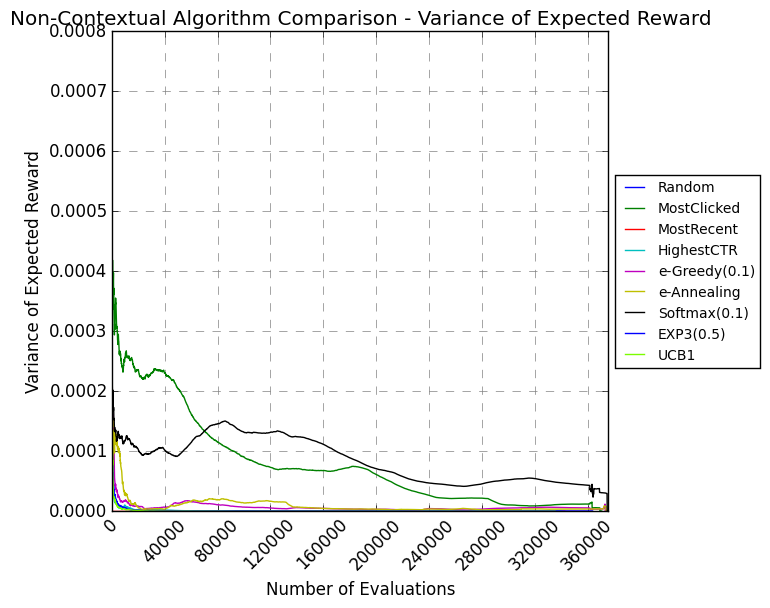
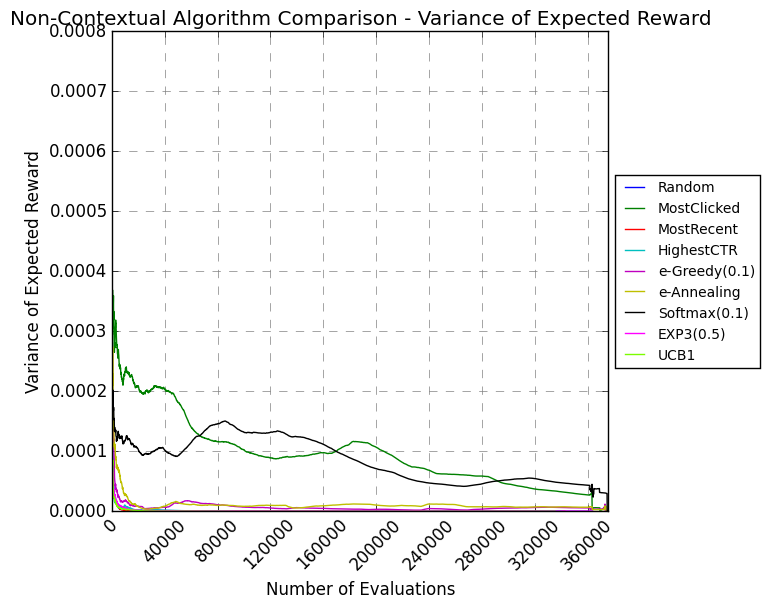
Added new ensembler, plot tweaks

diff --git a/exploChallenge/policies/EnsembleTestModel5.py b/exploChallenge/policies/EnsembleTestModel5.py
@@ -1,0 +1,70 @@
+__author__ = 'bixlermike'
+
+import math
+import numpy as np
+import random
+import re
+
+from exploChallenge.policies.ContextualBanditPolicy import ContextualBanditPolicy
+from exploChallenge.policies.eAnnealingContextualMod import eAnnealingContextualMod
+from exploChallenge.policies.NaiveBayesContextualMod import NaiveBayesContextualMod
+from exploChallenge.policies.MostCTRMod import MostCTRMod
+from exploChallenge.policies.RidgeRegressor import RidgeRegressor
+
+def rargmax(x):
+    m = np.amax(x)
+    indices = np.nonzero(x == m)[0]
+    return random.choice(indices)
+
+class EnsembleTestModel5(ContextualBanditPolicy):
+
+
+    def __init__(self, regressor):
+        # Create an object from each class to use for ensemble model
+        self.regressor = regressor
+        self.policy_one = NaiveBayesContextualMod()
+        self.policy_two = MostCTRMod()
+        self.policies = [self.policy_one, self.policy_two]
+        self.policy_one_count = 0
+        self.policy_two_count = 0
+        self.policy_counts = [self.policy_one_count, self.policy_two_count]
+        self.policy_one_scores = {}
+        self.policy_two_scores = {}
+        self.total_scores = {}
+        self.final_scaled_values = {}
+        self.chosen_policy = None
+
+    #@Override
+    def getActionToPerform(self, visitor, possibleActions):
+
+        policy_one_scaled_values = self.policy_one.getScaledIndices(visitor, possibleActions)
+        #print policy_one_scaled_values
+        policy_two_scaled_values =  self.policy_two.getScaledIndices(visitor, possibleActions)
+        #print policy_two_scaled_values
+        #print "\n"
+        for act in possibleActions:
+            self.policy_one_scores[act.getID()] = float(policy_one_scaled_values[act.getID()][0])
+            self.policy_two_scores[act.getID()] = float(policy_two_scaled_values[act.getID()][0])
+
+        policy_one_scores_list = [self.policy_one_scores[v.getID()] for v in possibleActions]
+        policy_two_scores_list = [self.policy_two_scores[vi.getID()] for vi in possibleActions]
+
+        max_policy_one_score = max(policy_one_scores_list)
+
+        #print "Max policy one: " + str(max_policy_one_score) + " and max policy two: " + str(max_policy_two_score)
+        #print "Delta is: " + str(delta)
+        # If the policy one score beats the policy two score by at least 10%
+        if (max_policy_one_score > max_policy_two_score and float(delta)/max_policy_two_score > 0.1):
+           # print "Here1 " + str(max_policy_one_score) + " " + str(max_policy_two_score)
+            return possibleActions[rargmax(policy_one_scores_list)]
+        else:
+            #print "Here3 "
+            return possibleActions[rargmax(policy_three_scores_list)]
+
+#@Override
+    def updatePolicy(self, content, chosen_arm, reward):
+
+        self.policy_one.updatePolicy(content, chosen_arm, reward)
+        self.policy_two.updatePolicy(content, chosen_arm, reward)
+
+        return

diff --git a/exploChallenge/Main.py b/exploChallenge/Main.py
@@ -60,6 +60,7 @@ from exploChallenge.policies.EnsembleTestModel import EnsembleTestModel
 from exploChallenge.policies.EnsembleTestModel2 import EnsembleTestModel2
 from exploChallenge.policies.EnsembleTestModel3 import EnsembleTestModel3
 from exploChallenge.policies.EnsembleTestModel4 import EnsembleTestModel4
+from exploChallenge.policies.EnsembleTestModel5 import EnsembleTestModel5
 
 
 from time import strftime
@@ -79,7 +80,7 @@ class Main:
         reader = None
 
         ## Create file to write output to..."a+" option appends
-        outputFile = open("banditOutputsEAnnealingWithTime.txt", "a+")
+        outputFile = open("banditOutputsEAnnealingContextualWithTime.txt", "a+")
         #outputFile = open("testing.txt", "a+")
 
 
@@ -125,9 +126,9 @@ class Main:
         #policyName = "eGreedy" + str(policy.getEpsilon())
         #outputFile.write("Policy: eGreedy" + str(policy.getEpsilon()) + "\n")
 
-        policy = eAnnealing()
-        policyName = "eAnnealing"
-        outputFile.write("Policy: eAnnealing\n")
+        #policy = eAnnealing()
+        #policyName = "eAnnealing"
+        #outputFile.write("Policy: eAnnealing\n")
 
         #policy = Softmax(0.1)
         #policyName = "Softmax" + str(policy.getTemp())
@@ -149,9 +150,9 @@ class Main:
         #policyName = "eGreedyContextual" + str(policy.getEpsilon())
         #outputFile.write("Policy: eGreedyContextual" + str(policy.getEpsilon()) + "\n")
 
-        #policy = eAnnealingContextual(RidgeRegressor(np.eye(136), np.zeros(136)))
-        #policyName = "eAnnealingContextual"
-        #outputFile.write("Policy: eGreedyContextual" + "\n")
+        policy = eAnnealingContextual(RidgeRegressor(np.eye(136), np.zeros(136)))
+        policyName = "eAnnealingContextual"
+        outputFile.write("Policy: eGreedyContextual" + "\n")
 
         #policy = GMPolicy()
         #policyName = "GMPolicy"
@@ -196,6 +197,10 @@ class Main:
         #policy = EnsembleTestModel4(RidgeRegressor(np.eye(136), np.zeros(136)))
         #policyName = "EnsembleTest4"
         #outputFile.write("Policy: EnsembleTest4\n")
+
+        #policy = EnsembleTestModel5(RidgeRegressor(np.eye(136), np.zeros(136)))
+        #policyName = "EnsembleTest5"
+        #outputFile.write("Policy: EnsembleTest5\n")
 
         evalPolicy = MyEvaluationPolicy(sys.stdout, logStep, 0, policyName, inputFileShort, outputFile)
 

diff --git a/create_mean_aer_plot.py b/create_mean_aer_plot.py
@@ -10,8 +10,7 @@ import numpy as np
 majorFormatter = FormatStrFormatter('%d')
 
 data = np.genfromtxt('banditMeanAERSummary.csv', delimiter=',', names = True)
-data2 = np.genfromtxt('banditMinAERSummary.csv', delimiter=',', names = True)
-data3 = np.genfromtxt('banditMaxAERSummary.csv', delimiter=',', names = True)
+#data = np.genfromtxt('banditMeanContextualAERSummary.csv', delimiter=',', names = True)
 
 fig = plt.figure()
 ax = fig.add_subplot(111)
@@ -28,7 +27,7 @@ ax.plot(data['t'],data['MostCTR'], label='HighestCTR')
 ax.plot(data['t'],data['eGreedy01'], label='e-Greedy(0.1)')
 ax.plot(data['t'],data['eAnnealing'], label='e-Annealing')
 ax.plot(data['t'],data['Softmax01'], label='Softmax(0.1)')
-ax.plot(data['t'],data['EXP305'], label='EXP3(0.5)')
+ax.plot(data['t'],data['EXP305'], label='EXP3(0.5)', color='fuchsia')
 ax.plot(data['t'],data['UCB1'], label='UCB1', color='lawngreen')
 
 #ax.plot(data['t'],data['Naive3'], label='NaiveBayes')

diff --git a/create_stdev_aer_plot.py b/create_stdev_aer_plot.py
@@ -10,6 +10,7 @@ import numpy as np
 majorFormatter = FormatStrFormatter('%d')
 
 data = np.genfromtxt('banditStDevAERSummary.csv', delimiter=',', names = True)
+data = np.genfromtxt('banditStDevContextualAERSummary.csv', delimiter=',', names = True)
 fig = plt.figure()
 ax = fig.add_subplot(111)
 
@@ -25,7 +26,7 @@ ax.plot(data['t'],data['MostCTR'], label='HighestCTR')
 ax.plot(data['t'],data['eGreedy01'], label='e-Greedy(0.1)')
 ax.plot(data['t'],data['eAnnealing'], label='e-Annealing')
 ax.plot(data['t'],data['Softmax01'], label='Softmax(0.1)')
-ax.plot(data['t'],data['EXP305'], label='EXP3(0.5)')
+ax.plot(data['t'],data['EXP305'], label='EXP3(0.5)', color='fuchsia')
 ax.plot(data['t'],data['UCB1'], label='UCB1', color='lawngreen')
 
 #ax.plot(data['t'],data['Naive3'], label='NaiveBayes')

diff --git a/create_max_aer_plot.py b/create_max_aer_plot.py
@@ -10,6 +10,8 @@ import numpy as np
 majorFormatter = FormatStrFormatter('%d')
 
 data = np.genfromtxt('banditMaxAERSummary.csv', delimiter=',', names = True)
+#data = np.genfromtxt('banditMaxContextualAERSummary.csv', delimiter=',', names = True)
+
 fig = plt.figure()
 ax = fig.add_subplot(111)
 
@@ -26,7 +28,7 @@ ax.plot(data['t'],data['MostCTR'], label='HighestCTR')
 ax.plot(data['t'],data['eGreedy01'], label='e-Greedy(0.1)')
 ax.plot(data['t'],data['eAnnealing'], label='e-Annealing')
 ax.plot(data['t'],data['Softmax01'], label='Softmax(0.1)')
-ax.plot(data['t'],data['EXP305'], label='EXP3(0.5)')
+ax.plot(data['t'],data['EXP305'], label='EXP3(0.5)', color='fuchsia')
 ax.plot(data['t'],data['UCB1'], label='UCB1', color='lawngreen')
 
 #ax.plot(data['t'],data['Naive3'], label='NaiveBayes')

diff --git a/create_min_aer_plot.py b/create_min_aer_plot.py
@@ -10,6 +10,8 @@ import numpy as np
 majorFormatter = FormatStrFormatter('%d')
 
 data = np.genfromtxt('banditMinAERSummary.csv', delimiter=',', names = True)
+data = np.genfromtxt('banditMinContextualAERSummary.csv', delimiter=',', names = True)
+
 fig = plt.figure()
 ax = fig.add_subplot(111)
 
@@ -25,7 +27,7 @@ ax.plot(data['t'],data['MostCTR'], label='HighestCTR')
 ax.plot(data['t'],data['eGreedy01'], label='e-Greedy(0.1)')
 ax.plot(data['t'],data['eAnnealing'], label='e-Annealing')
 ax.plot(data['t'],data['Softmax01'], label='Softmax(0.1)')
-ax.plot(data['t'],data['EXP305'], label='EXP3(0.5)')
+ax.plot(data['t'],data['EXP305'], label='EXP3(0.5)', color='fuchsia')
 ax.plot(data['t'],data['UCB1'], label='UCB1', color='lawngreen')
 
 #ax.plot(data['t'],data['Naive3'], label='NaiveBayes')

diff --git a/create_var_aer_plot.py b/create_var_aer_plot.py
@@ -10,6 +10,7 @@ import numpy as np
 majorFormatter = FormatStrFormatter('%d')
 
 data = np.genfromtxt('banditVarAERSummary.csv', delimiter=',', names = True)
+#data = np.genfromtxt('banditVarContextualAERSummary.csv', delimiter=',', names = True)
 fig = plt.figure()
 ax = fig.add_subplot(111)
 
@@ -25,7 +26,7 @@ ax.plot(data['t'],data['MostCTR'], label='HighestCTR')
 ax.plot(data['t'],data['eGreedy01'], label='e-Greedy(0.1)')
 ax.plot(data['t'],data['eAnnealing'], label='e-Annealing')
 ax.plot(data['t'],data['Softmax01'], label='Softmax(0.1)')
-ax.plot(data['t'],data['EXP305'], label='EXP3(0.5)')
+ax.plot(data['t'],data['EXP305'], label='EXP3(0.5)', color='fuchsia')
 ax.plot(data['t'],data['UCB1'], label='UCB1', color='lawngreen')
 
 #ax.plot(data['t'],data['Naive3'], label='NaiveBayes')
